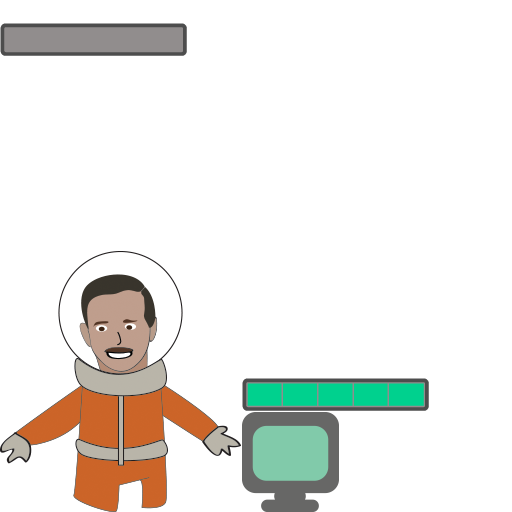
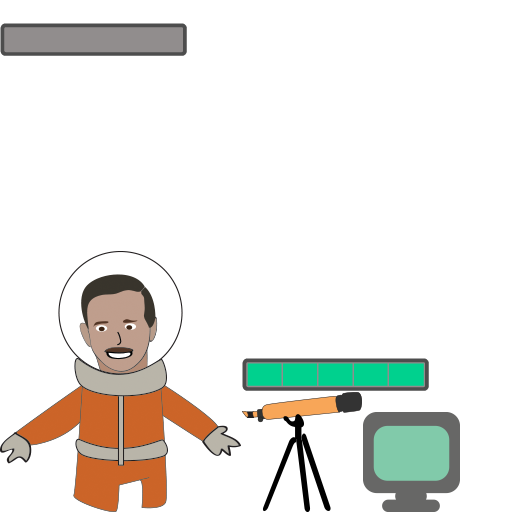
* menus

Changed region(s): [[0.4688, 0.6875, 0.9062, 1.0]]

diff --git a/Project/Game/Assets/Scripts/Controller.cs b/Project/Game/Assets/Scripts/Controller.cs
@@ -6,12 +6,15 @@ public class Controller : MonoBehaviour {
 	public 	float 			wlkingSpeed = 2.0f;
 	public	float			distanceFromItem = 20f;
 	public	GameObject		progressBar;
+	public	GameObject		menu;
+	public	Transform		UIPanel;
 	
 	private	Player			mPlayer;
 	public	Controller		controller;
 	static 	Controller 		mInstance;
 	public 	static Controller instance { get {return mInstance;}}
 	private	ClickAndGoTo	mClickAGoTo;
+	private	GameObject		mMenu;
 	
 	// Use this for initialization
 	void Start () {
@@ -46,6 +49,15 @@ public class Controller : MonoBehaviour {
 	public void ResetClick(){
 		if(mClickAGoTo){
 			mClickAGoTo.Reset();
+		}
+	}
+	
+	public void TaskComplete(){
+		if(menu&&UIPanel){
+			mMenu = (GameObject)Instantiate(menu);
+			mMenu.transform.parent = UIPanel.gameObject.transform;
+			mMenu.transform.localScale = Vector3.one;
+			mMenu.transform.localPosition = new Vector3(0,0,-2);
 		}
 	}
 }

diff --git a/Project/Game/Assets/Scripts/Player.cs b/Project/Game/Assets/Scripts/Player.cs
@@ -66,6 +66,8 @@ public class Player : MonoBehaviour {
 			if(mProgress.sliderValue == 1){
 				mIsWorking = false;
 				Controller.instance.ResetClick();
+				Controller.instance.TaskComplete();
+				Destroy(mProgress.gameObject);
 			}
 		}
 	}
